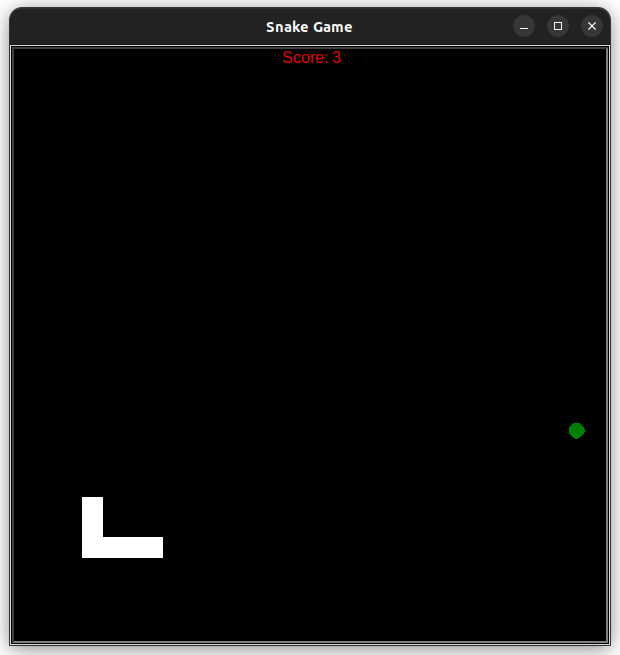
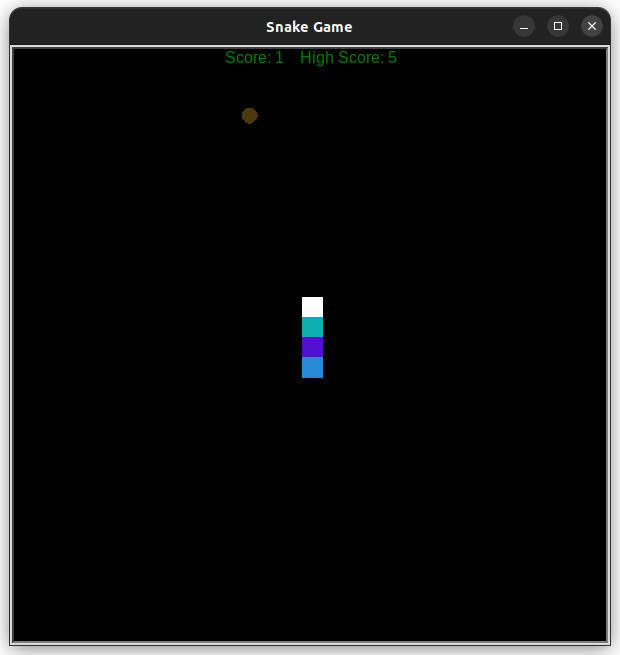
Added High Score Functionality

diff --git a/snake.py b/snake.py
@@ -1,31 +1,43 @@
-#Importing Libraries
+# Importing Libraries
 from turtle import Turtle
+import random
+import turtle
 
-#Constants
+# Constants
 MOVE_DISTANCE = 20
 UP = 90
 DOWN = 270
 LEFT = 180
 RIGHT = 0
+DIRECTION = [UP, DOWN, LEFT, RIGHT]
 X_INIT = 0
 Y_INIT = 0
 INIT_SNAKE_BLOCKS = 2
+X_LIMIT = 600
+Y_LIMIT = 600
+HEAD_COLOR = "white"
+SHAPE = "square"
+MAX_INTENSITY = 255
 
 
-class Snake():
+class Snake:
     def __init__(self):
-        x_init = 0
-        y_init = 0
-        snake_block = Turtle(shape='square')
-        snake_block.color('white')
+        self.create_snake()
+        return
+
+    def create_snake(self):
+        snake_block = Turtle(shape=SHAPE)
+        snake_block.color(HEAD_COLOR)
         snake_block.penup()
         snake_block.goto(X_INIT, X_INIT)
+        random_direction = random.choice(DIRECTION)
+        snake_block.setheading(random_direction)
         self.snake_list = [snake_block]
         self.head = snake_block
         for i in range(INIT_SNAKE_BLOCKS):
             self.extend()
         return
-        
+
     def move(self):
         for block_index in range(len(self.snake_list) - 1, 0, -1):
             prev_x = self.snake_list[block_index - 1].xcor()
@@ -33,11 +45,13 @@ class Snake():
             self.snake_list[block_index].goto(prev_x, prev_y)
         self.head.forward(MOVE_DISTANCE)
         return
-    
+
     def extend(self):
+        turtle.colormode(MAX_INTENSITY)
         new_pos = self.snake_list[-1].pos()
-        snake_block = Turtle(shape='square')
-        snake_block.color('white')
+        snake_block = Turtle(shape=SHAPE)
+        block_color = self.random_color()
+        snake_block.color(block_color)
         snake_block.penup()
         snake_block.goto(new_pos)
         self.snake_list.append(snake_block)
@@ -45,32 +59,45 @@ class Snake():
 
     def up(self):
         current_heading = self.head.heading()
-        if ((current_heading == UP) or (current_heading == DOWN)):
-            return 
+        if (current_heading == UP) or (current_heading == DOWN):
+            return
         else:
             self.head.setheading(UP)
             return
 
     def down(self):
         current_heading = self.head.heading()
-        if ((current_heading == UP) or (current_heading == DOWN)):
-            return 
+        if (current_heading == UP) or (current_heading == DOWN):
+            return
         else:
             self.head.setheading(DOWN)
             return
 
     def left(self):
         current_heading = self.head.heading()
-        if ((current_heading == RIGHT) or (current_heading == LEFT)):
-            return 
+        if (current_heading == RIGHT) or (current_heading == LEFT):
+            return
         else:
             self.head.setheading(LEFT)
             return
 
     def right(self):
         current_heading = self.head.heading()
-        if ((current_heading == RIGHT) or (current_heading == LEFT)):
-            return 
+        if (current_heading == RIGHT) or (current_heading == LEFT):
+            return
         else:
             self.head.setheading(RIGHT)
             return
+
+    def game_reset(self):
+        for snake_block in self.snake_list:
+            snake_block.goto(x=X_LIMIT * 2, y=Y_LIMIT * 2)
+        self.snake_list.clear()
+        self.create_snake()
+        return
+
+    def random_color(self):
+        red = random.randint(0, MAX_INTENSITY)
+        green = random.randint(0, MAX_INTENSITY)
+        blue = random.randint(0, MAX_INTENSITY)
+        return (red, green, blue)

diff --git a/scoreboard.py b/scoreboard.py
@@ -1,36 +1,59 @@
-#Importing Libraries
+# Importing Libraries
 from turtle import Turtle
 
 # CONSTANTS
-ALIGNMENT = 'center'
-FONT = ('Arial', 12, 'normal')
-COLOR = 'red'
+ALIGNMENT = "center"
+FONT = ("Arial", 12, "normal")
+COLOR = "green"
 X_INIT = 0
 Y_INIT = 280
 Y_INIT_GAME_OVER = 0
 X_INIT_GAME_OVER = 0
+HIGH_SCORE_FILE = "data.txt"
+
 
 class ScoreBoard(Turtle):
-
     def __init__(self):
         super().__init__()
         self.score = 0
-        text = f"Score: {self.score}"
+        self.high_score = self.read_high_score()
+        self.write_scoreboard()
+        return
+
+    def update_score(self):
+        self.score += 1
+        self.write_scoreboard()
+        return
+
+    def write_scoreboard(self):
+        self.clear()
         self.penup()
         self.goto(X_INIT, Y_INIT)
         self.color(COLOR)
         self.hideturtle()
-        self.write(text, align=ALIGNMENT, font=FONT)
-        return
-    
-    def update_score(self):
-        self.clear()
-        self.score += 1
-        text = f"Score: {self.score}"
+        text = f"Score: {self.score}    High Score: {self.high_score}"
         self.write(text, align=ALIGNMENT, font=FONT)
         return
 
+    def game_reset(self):
+        if self.score > self.high_score:
+            self.high_score = self.score
+        self.score = 0
+        self.write_high_score()
+        self.write_scoreboard()
+        return
+
+    def read_high_score(self):
+        with open(HIGH_SCORE_FILE, "r") as file:
+            high_score = int(file.read())
+        return high_score
+
+    def write_high_score(self):
+        with open(HIGH_SCORE_FILE, "w") as file:
+            file.write(str(self.high_score))
+        return
+
     def game_over(self):
-        self.goto(X_INIT_GAME_OVER,Y_INIT_GAME_OVER)
-        self.write("GAME OVER", align= ALIGNMENT, font=FONT)
+        self.goto(X_INIT_GAME_OVER, Y_INIT_GAME_OVER)
+        self.write("GAME OVER", align=ALIGNMENT, font=FONT)
         return

diff --git a/main.py b/main.py
@@ -1,4 +1,4 @@
-#Importing Libraries
+# Importing Libraries
 from turtle import Screen
 import time
 from snake import Snake
@@ -11,14 +11,14 @@ X_MIN = -280
 Y_MIN = -280
 Y_MAX = 279
 
-#Screen Setup
+# Screen Setup
 window = Screen()
-window.setup(width=600,height=600)
-window.bgcolor('black')
-window.title('Snake Game')
+window.setup(width=600, height=600)
+window.bgcolor("black")
+window.title("Snake Game")
 window.tracer(0)
 
-#Objects Setup
+# Objects Setup
 snake = Snake()
 food = Food()
 scoreboard = ScoreBoard()
@@ -42,20 +42,28 @@ while game_is_on:
     snake.move()
 
     # Food Collision
-    if (snake.head.distance(food) < 15):
+    if snake.head.distance(food) < 15:
         food.reset_pos()
         snake.extend()
         scoreboard.update_score()
 
     # Wall Collision
-    if (snake.head.xcor() < X_MIN) or (snake.head.xcor() > X_MAX) or (snake.head.ycor() < Y_MIN) or (snake.head.ycor() > Y_MAX):
-        game_is_on = False
+    if (
+        (snake.head.xcor() < X_MIN)
+        or (snake.head.xcor() > X_MAX)
+        or (snake.head.ycor() < Y_MIN)
+        or (snake.head.ycor() > Y_MAX)
+    ):
         scoreboard.game_over()
-    
+        time.sleep(2)
+        scoreboard.game_reset()
+        snake.game_reset()
+
     # Tail Collision
     for snake_block in snake.snake_list[1:]:
-        if (snake.head.distance(snake_block) < 10):
-            game_is_on = False
+        if snake.head.distance(snake_block) < 10:
             scoreboard.game_over()
-
+            time.sleep(2)
+            scoreboard.game_reset()
+            snake.game_reset()
 window.exitonclick()

diff --git a/food.py b/food.py
@@ -1,27 +1,29 @@
-#Importing Libraries
+# Importing Libraries
 from turtle import Turtle
 import random
+import turtle
 
-#Constants
-SHAPE = 'circle'
-COLOR = 'green'
-SPEED = 'fastest'
+# Constants
+SHAPE = "circle"
+SPEED = "fastest"
 LENGTH_FACTOR = 0.75
 WIDTH_FACTOR = 0.75
 MIN_X = -280
 MIN_Y = -280
 MAX_X = 280
 MAX_Y = 280
+MAX_INTENSITY = 255
 
 
 class Food(Turtle):
-
     def __init__(self):
         super().__init__()
         self.shape(SHAPE)
         self.penup()
         self.shapesize(stretch_len=LENGTH_FACTOR, stretch_wid=WIDTH_FACTOR)
-        self.color(COLOR)
+        turtle.colormode(MAX_INTENSITY)
+        random_color = self.random_color()
+        self.color(random_color)
         self.speed(SPEED)
         self.reset_pos()
         return
@@ -31,3 +33,9 @@ class Food(Turtle):
         random_y = random.randint(MIN_Y, MAX_Y)
         self.goto(random_x, random_y)
         return
+
+    def random_color(self):
+        red = random.randint(0, MAX_INTENSITY)
+        green = random.randint(0, MAX_INTENSITY)
+        blue = random.randint(0, MAX_INTENSITY)
+        return (red, green, blue)

diff --git a/README.md b/README.md
@@ -5,6 +5,9 @@ Tejas Acharya
 
 Snake grows longer everytime it eats food and score gets updated. Game is over when snake hits wall(boundary) or when snake bites it's own body. Snake is controlled by Arrow keys.
 
+Update:
+-High Score Functionality Added.
+
 
 ### Requirements:
 [Turtle](https://docs.python.org/3/library/turtle.html)
@@ -20,8 +23,8 @@ python3 main.py
 ### Game Screen
 ![Game Screen](images/normal_game.png)
 
-### GAME OVER screen when snake hits wall.
+### Game Over screen when snake hits wall.
 ![GAME OVER](images/wall_hit.png)
 
-### GAME OVER screen when snake bites it's own body.
+### Game Over screen when snake bites it's own body.
 ![GAME OVER](images/tail_bite.png)
